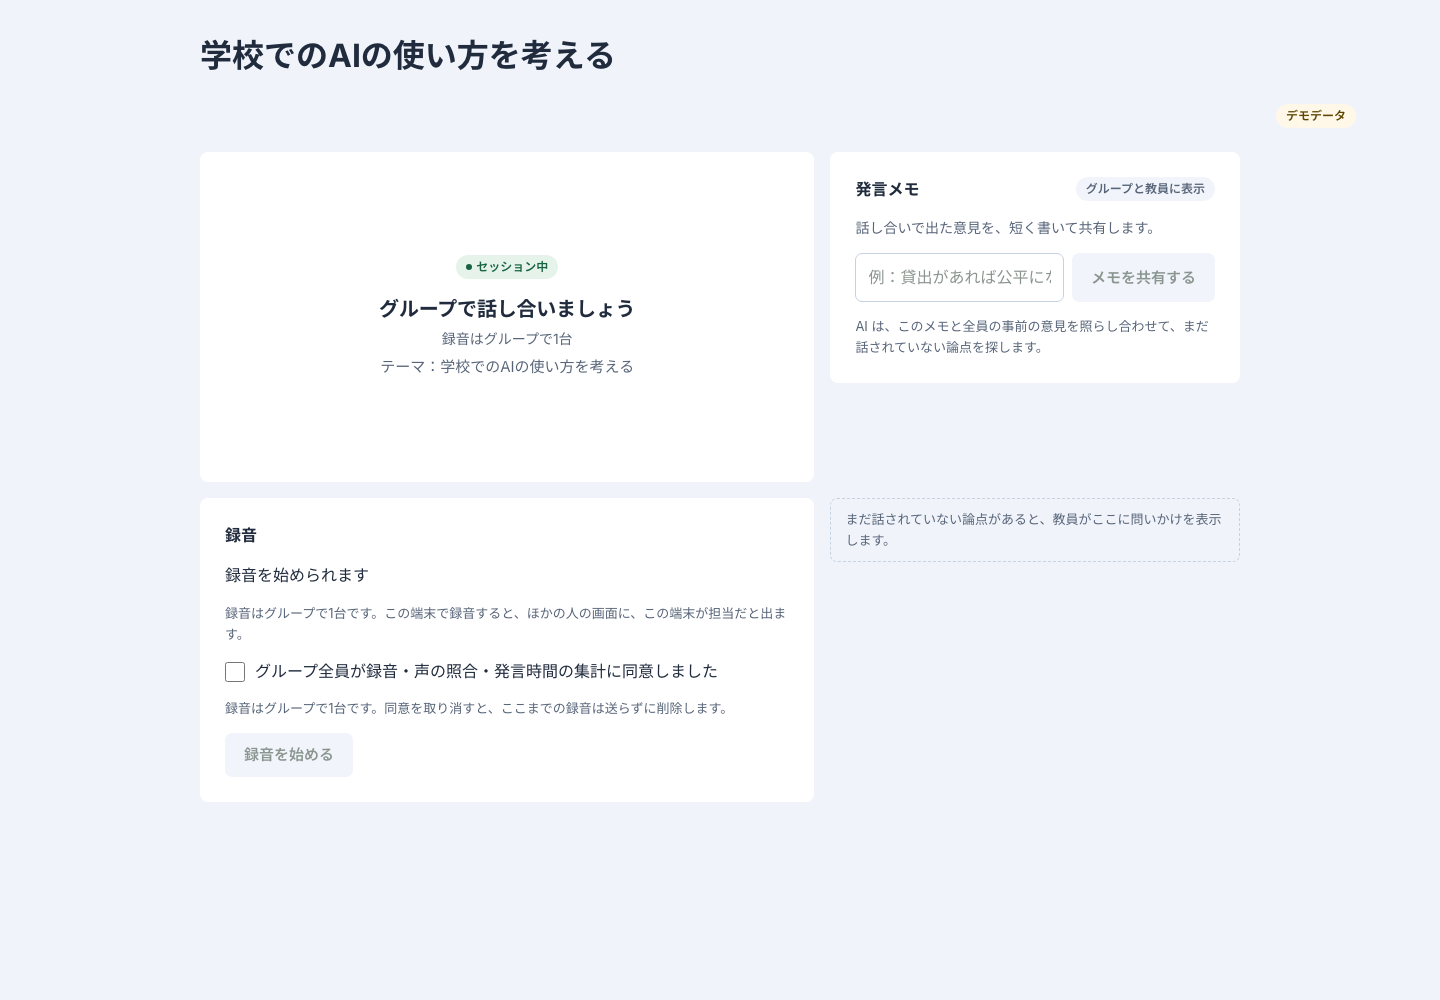
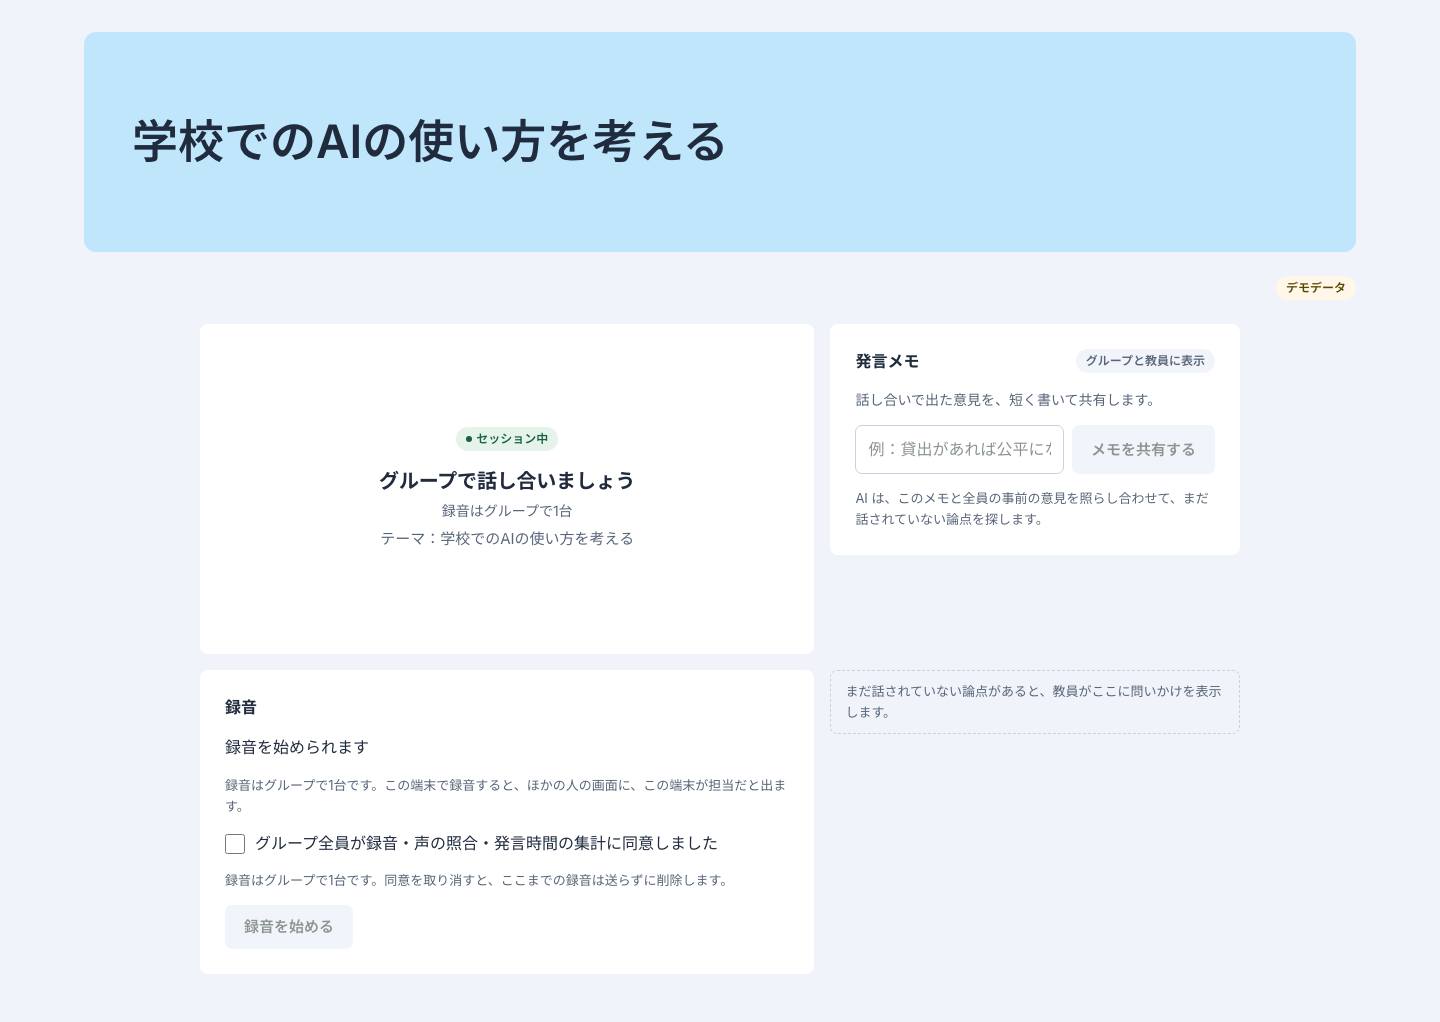
feat(web): 複数グループの確認用デモと大きなテーマ表示を追加

diff --git a/web/e2e/dashboard-demo.spec.ts b/web/e2e/dashboard-demo.spec.ts
@@ -1,0 +1,36 @@
+import { expect, test, type Page } from "@playwright/test";
+import { seedDashboardDemo } from "../../firebase/dashboard-demo.mjs";
+
+async function capture(page: Page, scene: string, fullPage = true) {
+  for (const [label, width, height] of [["mobile", 390, 844], ["tablet", 820, 1180], ["desktop", 1440, 1000]] as const) {
+    await page.setViewportSize({ width, height });
+    await expect.poll(() => page.evaluate(() => document.documentElement.scrollWidth <= innerWidth)).toBe(true);
+    await page.screenshot({ path: `../docs/screenshots/session-host-demo-${scene}-${label}.png`, fullPage, animations: "disabled", scale: "css" });
+  }
+}
+
+test("3グループのデモで発言割合・推移・詳細を確認し、続行と終了を操作できる", async ({ page }) => {
+  await seedDashboardDemo();
+  await page.goto("/demo/session");
+  await page.getByRole("button", { name: "デモを開く", exact: true }).click();
+  await expect(page).toHaveURL(/\/rooms\/dashboard-demo$/);
+  await expect(page.getByRole("heading", { level: 1 })).toHaveText("学校でAIを使うとき、どんなルールが必要だろう？");
+  await expect(page.getByRole("region", { name: "グループの状況" }).getByRole("button", { name: /グループ\dの詳細/ })).toHaveCount(3);
+  await expect(page.getByRole("img", { name: "意見の検討率：60%", exact: true })).toBeVisible();
+  await expect(page.getByRole("button", { name: "グループ2の詳細", exact: true })).toContainText("ひなた（デモ）");
+  await capture(page, "dashboard");
+  await page.getByRole("button", { name: "グループ2の詳細", exact: true }).click();
+  const detail = page.getByRole("dialog", { name: "グループ2", exact: true });
+  await expect(detail.getByRole("img", { name: /録音開始から10分まで/ })).toBeVisible();
+  await expect(detail).toContainText("音声モックのテスト表示");
+  await expect(detail).toContainText("ひなた（デモ）：391.0秒");
+  await capture(page, "detail", false);
+  await detail.getByRole("button", { name: "閉じる", exact: true }).click();
+  await page.getByRole("button", { name: "議論を終える", exact: true }).click();
+  const confirmation = page.getByRole("dialog", { name: "セッションを終了しますか？", exact: true });
+  await confirmation.getByRole("button", { name: "続行する", exact: true }).click();
+  await expect(page.getByRole("heading", { name: "セッション中", exact: true })).toBeVisible();
+  await page.getByRole("button", { name: "議論を終える", exact: true }).click();
+  await confirmation.getByRole("button", { name: "終了する", exact: true }).click();
+  await expect(page.getByRole("heading", { name: "セッションの結果", exact: true })).toBeVisible();
+});

diff --git a/web/src/components/DemoSessionLauncher.tsx b/web/src/components/DemoSessionLauncher.tsx
@@ -1,0 +1,23 @@
+"use client";
+import { useState } from "react";
+import { useRouter } from "next/navigation";
+import { canUseTestHost, signInAsTestHost } from "@/lib/hostAuth";
+
+/** ローカル専用。通常の模擬Googleログインとセッション認証を通してからデモへ進む。 */
+export function DemoSessionLauncher() {
+  const router = useRouter();
+  const [busy, setBusy] = useState(false), [error, setError] = useState("");
+  async function open() {
+    if (!canUseTestHost) return;
+    setBusy(true); setError("");
+    try { await signInAsTestHost(); router.push("/rooms/dashboard-demo"); }
+    catch { setError("デモを開けませんでした。接続を確認して、もう一度お試しください。"); setBusy(false); }
+  }
+  return <main className="body body--center" style={{ minHeight: "100dvh" }}><section className="box pad stack" style={{ width: "min(520px, 100%)", marginBlock: "auto" }}>
+    <span className="tag tag--yellow">デモデータ</span><h1 className="t-lg">3グループの議論を見てみる</h1>
+    <p className="t-note">各グループ4人の発言割合と、10分間の推移を確認できます。カードを押すと詳細が開きます。</p>
+    <p className="t-note">テスト用の先生でログインします。名前・発言時間・分析結果はすべて架空です。</p>
+    <button className="btn btn--blue btn--block" disabled={busy || !canUseTestHost} onClick={() => void open()}>{busy ? "開いています…" : "デモを開く"}</button>
+    {error && <p className="notice notice--error" role="alert">{error}</p>}
+  </section></main>;
+}

diff --git a/web/src/components/host/LiveBoard.tsx b/web/src/components/host/LiveBoard.tsx
@@ -198,7 +198,7 @@ function FinishButton({ roomId }: { roomId: string }) {
     <dialog ref={confirm} className="dialog session-finish-dialog" aria-labelledby="finish-dialog-title" aria-describedby="finish-dialog-description" onCancel={e => { if (busy) e.preventDefault(); }}>
       <div className="session-finish-dialog__body"><p className="session-finish-dialog__label">セッションの終了</p><h2 id="finish-dialog-title" className="t-md">セッションを終了しますか？</h2><p id="finish-dialog-description" className="t-note">全グループの議論を終了し、参加者は結論の入力へ進みます。</p>
         {error && <p className="notice notice--error" role="alert">{error}</p>}
-        <div className="session-finish-dialog__actions"><button ref={cancel} className="btn" disabled={busy} onClick={() => confirm.current?.close()}>まだ続ける</button><button className="btn session-finish-button" disabled={busy} onClick={() => void finish()}>{busy ? "終えています…" : "終えて結果を見る"}</button></div>
+        <div className="session-finish-dialog__actions"><button ref={cancel} className="btn" disabled={busy} onClick={() => confirm.current?.close()}>続行する</button><button className="btn session-finish-button" disabled={busy} onClick={() => void finish()}>{busy ? "終えています…" : "終了する"}</button></div>
       </div>
     </dialog>
   </div>;

diff --git a/web/src/components/LoginGate.tsx b/web/src/components/LoginGate.tsx
@@ -11,7 +11,8 @@ export function LoginGate({ children }: { children: React.ReactNode }) {
   const session = useAppSession(), { user, status } = session;
   const pathname = usePathname(), router = useRouter();
   // ログインなしで開ける画面：ログイン、使い方とプライバシー、紹介ページ（LP）
-  const publicPage = pathname === "/" || pathname === "/about" || pathname === "/lp";
+  const demoEntry = process.env.NEXT_PUBLIC_USE_EMULATORS === "1" && pathname === "/demo/session";
+  const publicPage = pathname === "/" || pathname === "/about" || pathname === "/lp" || demoEntry;
   const lastInput = useRef(Date.now()), sentAt = useRef(0), mountedPrivate = useRef(false);
   const [error, setError] = useState(""), [busy, setBusy] = useState(false);
   if (status === "active" && !publicPage) mountedPrivate.current = true;

diff --git a/web/e2e/demo-start.spec.ts b/web/e2e/demo-start.spec.ts
@@ -50,7 +50,7 @@ test("未準備のGuestを外して開始でき、同意を取り消した録音
     await expect(ready.getByRole("button", { name: "録音を始める", exact: true })).toBeDisabled();
 
     await page.getByRole("button", { name: "議論を終える", exact: true }).click();
-    await page.getByRole("button", { name: "終えて結果を見る", exact: true }).click();
+    await page.getByRole("button", { name: "終了する", exact: true }).click();
     await expect(ready.getByRole("heading", { name: "結論を自分の言葉で書く" })).toBeVisible();
     await ready.waitForTimeout(1_500);
     expect(uploads).toEqual([]);

diff --git a/web/src/app/rooms/[roomId]/session.css b/web/src/app/rooms/[roomId]/session.css
@@ -206,3 +206,6 @@
   .session-group-sheet[open] { animation: none; }
   .session-group-card__open, .dashboard-speech__track > span { transition: none; }
 }
+
+.session-workspace[data-active] .session-page__title { width: 100%; display: flex; align-items: center; min-height: 220px; padding: clamp(28px, 4vw, 48px); background: #bfe6fb; border-radius: 12px; font-size: clamp(28px, 3.5vw, 46px); font-weight: 600; line-height: 1.55; overflow-wrap: anywhere; }
+@media (max-width: 600px) { .session-workspace[data-active] .session-page__title { min-height: 180px; padding: 28px; } }

diff --git a/web/src/app/demo/session/page.tsx b/web/src/app/demo/session/page.tsx
@@ -1,0 +1,7 @@
+import { notFound } from "next/navigation";
+import { DemoSessionLauncher } from "@/components/DemoSessionLauncher";
+
+export default function DemoSessionPage() {
+  if (process.env.NEXT_PUBLIC_USE_EMULATORS !== "1") notFound();
+  return <DemoSessionLauncher />;
+}
